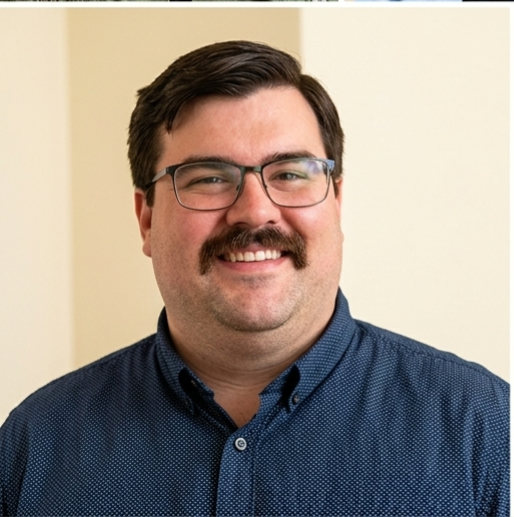
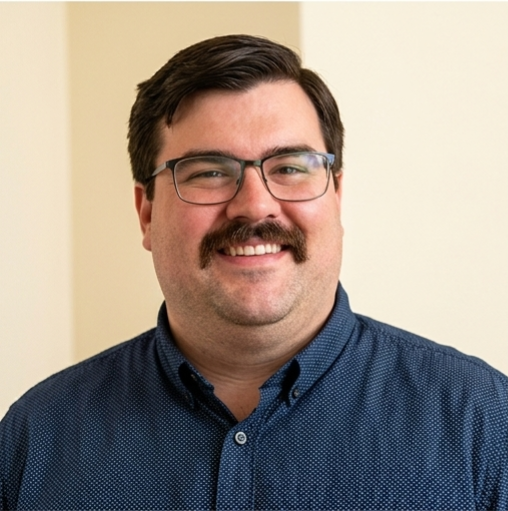
작성중

diff --git a/about_us.html b/about_us.html
@@ -15,6 +15,7 @@
     <script src="js/menu.js"></script>
     <script src="js/search.js"></script>
     <script src="js/accordion.js"></script>
+    <script src="js/overflow.js"></script>
 </head>
 
 <body>
@@ -515,7 +516,130 @@
                 </div>
             </div>
         </section>
-
+        <section>
+            <h3 class="heading2">The Minds<br>
+                <span class="left_padd">Behind the Obsession</span>
+            </h3>
+            <p class="align_right body-xl">"We don’t just hire roles; we gather obsessives.<br> Meet the engineers, designers, and community builders who live and breathe tactile perfection."</p>
+            <p class="body-l">Our commitment to thoughtful design doesn't end with the product; it begins with the unboxing. We have completely overmatched our identity system to introduce 100% circular, eco-friendly packaging. Moving entirely away from synthetic foam inserts, our upcoming runs utilize premium molded pulp derived from unbleached organic materials—ensuring that our footprint on the planet is as clean as our design aesthetic.</p>
+            <div class="card_overflow">
+                <article class="card_slot_cont">
+                    <figure>
+                    </figure>
+                    <div class="text_cont">
+                        <h4 class="title2">Jaicob</h4>
+                        <div class="label-s">
+                            <span>DESIGNATION</span>
+                            <span>Chief Executive Officer</span>
+                        </div>
+                        <div class="label-s">
+                            <span>DAILY OBSESSION</span>
+                            <span>Raw aluminum softness</span>
+                        </div>
+                        <div class="label-s">
+                            <span>ANALOG TOOL</span>
+                            <span>Kaweco Fountain Pen</span>
+                        </div>
+                        <div class="label-s">
+                            <span>BOARD CONFIG</span>
+                            <span>Sonnet / Solid Brass</span>
+                        </div>
+                    </div>
+                </article>
+                <article class="card_slot_cont">
+                    <figure>
+                    </figure>
+                    <div class="text_cont">
+                        <h4 class="title2">Matthew</h4>
+                        <div class="label-s">
+                            <span>DESIGNATION</span>
+                            <span>Chief Design Officer</span>
+                        </div>
+                        <div class="label-s">
+                            <span>DAILY OBSESSION</span>
+                            <span>Case edge shadow alignment</span>
+                        </div>
+                        <div class="label-s">
+                            <span>ANALOG TOOL</span>
+                            <span>Midori MD Notebook</span>
+                        </div>
+                        <div class="label-s">
+                            <span>BOARD CONFIG</span>
+                            <span>Tempo / Olive Green Matte</span>
+                        </div>
+                    </div>
+                </article>
+                <article class="card_slot_cont">
+                    <figure>
+                    </figure>
+                    <div class="text_cont">
+                        <h4 class="title2">Andrew</h4>
+                        <div class="label-s">
+                            <span>DESIGNATION</span>
+                            <span>Manufacturing</span>
+                        </div>
+                        <div class="label-s">
+                            <span>DAILY OBSESSION</span>
+                            <span>Case edge alignment</span>
+                        </div>
+                        <div class="label-s">
+                            <span>ANALOG TOOL</span>
+                            <span>Mitutoyo Digital Caliper</span>
+                        </div>
+                        <div class="label-s">
+                            <span>BOARD CONFIG</span>
+                            <span>Loop / Industrial Gray</span>
+                        </div>
+                    </div>
+                </article>
+                <article class="card_slot_cont">
+                    <figure>
+                    </figure>
+                    <div class="text_cont">
+                        <h4 class="title2">Valerie</h4>
+                        <div class="label-s">
+                            <span>DESIGNATION</span>
+                            <span>Customer Experience</span>
+                        </div>
+                        <div class="label-s">
+                            <span>DAILY OBSESSION</span>
+                            <span>Humanizing the digital desk</span>
+                        </div>
+                        <div class="label-s">
+                            <span>ANALOG TOOL</span>
+                            <span>Matte Ceramic Coffee Mug</span>
+                        </div>
+                        <div class="label-s">
+                            <span>BOARD CONFIG</span>
+                            <span>Envoy / Cloud White</span>
+                        </div>
+                    </div>
+                </article>
+                <article class="card_slot_cont">
+                    <figure>
+                    </figure>
+                    <div class="text_cont">
+                        <h4 class="title2">Xris</h4>
+                        <div class="label-s">
+                            <span>DESIGNATION</span>
+                            <span>Product Marketing</span>
+                        </div>
+                        <div class="label-s">
+                            <span>DAILY OBSESSION</span>
+                            <span>Translating complex jargon</span>
+                        </div>
+                        <div class="label-s">
+                            <span>ANALOG TOOL</span>
+                            <span>Vintage Mechanical Stopwatch</span>
+                        </div>
+                        <div class="label-s">
+                            <span>BOARD CONFIG</span>
+                            <span>Sonnet / BrasSonnet</span>
+                        </div>
+                    </div>
+                </article>
+            </div>
+        </section>
     </main>
     <footer>
         <section class="footer_front">

diff --git a/css/about_us.css b/css/about_us.css
@@ -106,6 +106,97 @@ main section.grid_bg div div article span{
 main section.grid_bg div div img{
     width: 100%;
 }
+main section p.align_right{
+    border-bottom: 1px solid var(--gs05);
+    padding-bottom: 10px;
+    margin-bottom: 40px;
+    text-align: right;
+}
+main section p.align_right+p{
+    margin-bottom: 50px;
+}
+main section div.card_overflow{
+    display: flex;
+    flex-wrap: nowrap;
+    gap: 20px;
+    width: 100%;
+    max-width: 1100px;
+    overflow-x: auto;
+    scrollbar-width: none;
+    cursor: grab;
+}
+main section div.card_overflow.dragging{
+    cursor: grabbing;
+    user-select: none;
+}
+main section div.card_overflow article{
+    background-color: var(--gs09);
+    padding: 10px;
+    flex-shrink: 0;
+}
+main section div.card_overflow article figure{
+    background-size: cover;
+    width: 100%;
+    height: 425px;
+    overflow: hidden;
+}
+main section div.card_overflow article:hover figure{
+    width: 100%;
+    background-size: cover;
+    transform: translateY(-2px);
+}
+main section div.card_overflow article:first-of-type figure{
+    background-image: url(../images/about/team1.webp);
+}
+main section div.card_overflow article:nth-of-type(2) figure{
+    background-image: url(../images/about/team2.webp);
+}
+main section div.card_overflow article:nth-of-type(3) figure{
+    background-image: url(../images/about/team3.webp);
+}
+main section div.card_overflow article:nth-of-type(4) figure{
+    background-image: url(../images/about/team4.png);
+}
+main section div.card_overflow article:nth-of-type(5) figure{
+    background-image: url(../images/about/team5.webp);
+}
+main section div.card_overflow article:first-of-type:hover figure{
+    background-image: url(../images/about/team1_color.png); 
+}
+main section div.card_overflow article:nth-of-type(2):hover figure{
+    background-image: url(../images/about/team2_color.png); 
+}
+main section div.card_overflow article:nth-of-type(3):hover figure{
+    background-image: url(../images/about/team3_color.png); 
+}
+main section div.card_overflow article:nth-of-type(4):hover figure{
+    background-image: url(../images/about/team4_color.png); 
+}
+main section div.card_overflow article:nth-of-type(5):hover figure{
+    background-image: url(../images/about/team5_color.png); 
+}
+main section div.card_overflow article .text_cont{
+    padding: 10px 0;
+}
+main section div.card_overflow article .text_cont h4{
+    margin-bottom: 10px;
+    color: var(--gs04);
+}
+main section div.card_overflow article .text_cont div{
+    display: flex;
+    padding: 10px;
+    border-bottom: 1px solid var(--gs04);
+}
+main section div.card_overflow article .text_cont div span{
+    display: block;
+    color: var(--gs02);
+}
+main section div.card_overflow article .text_cont div span:first-of-type{
+    width: 40%;
+}
+main section div.card_overflow article .text_cont div span:last-of-type{
+    width: 60%;
+}
 @media screen and (min-width:1024px) {
     main.about_main section .div_row{
         gap: 4%;
@@ -145,11 +236,24 @@ main section.grid_bg div div img{
         max-width: 450px;
         width: 100%;
         margin: 0 auto;
-    }
-    
+    }    
 }
-@media screen and (max-width:400){
+@media screen and (min-width:400px){
+    main section div.card_overflow article{
+        width: 360px;
+    }
+    main section div.card_overflow article figure{
+        height: 430px;
+    }
+}
+@media screen and (max-width:400px){
     main section.grid_bg{
         padding: 10px;
+    }
+    main section div.card_overflow article{
+        width: 260px;
+    }
+    main section div.card_overflow article figure{
+        height: 300px;
     }
 }

diff --git a/js/overflow.js b/js/overflow.js
@@ -1,0 +1,38 @@
+document.addEventListener('DOMContentLoaded', () => {
+    const sliders = document.querySelectorAll('.card_overflow, .mini_card');
+
+    sliders.forEach((slider) => {
+        let isDown = false;
+        let startX;
+        let scrollLeft;
+
+        slider.addEventListener('mousedown', (e) => {
+            isDown = true;
+            slider.classList.add('active');
+            startX = e.pageX - slider.offsetLeft;
+            scrollLeft = slider.scrollLeft;
+            slider.style.cursor = 'grabbing'; 
+        });
+
+        slider.addEventListener('mouseleave', () => {
+            isDown = false;
+            slider.style.cursor = 'grab';
+        });
+
+        slider.addEventListener('mouseup', () => {
+            isDown = false;
+            slider.style.cursor = 'grab';
+        });
+
+        slider.addEventListener('mousemove', (e) => {
+            if (!isDown) return; 
+            e.preventDefault(); 
+            
+            const x = e.pageX - slider.offsetLeft;
+            const walk = (x - startX) * 1.5; 
+            slider.scrollLeft = scrollLeft - walk;
+        });
+
+        slider.style.cursor = 'grab';
+    });
+});
